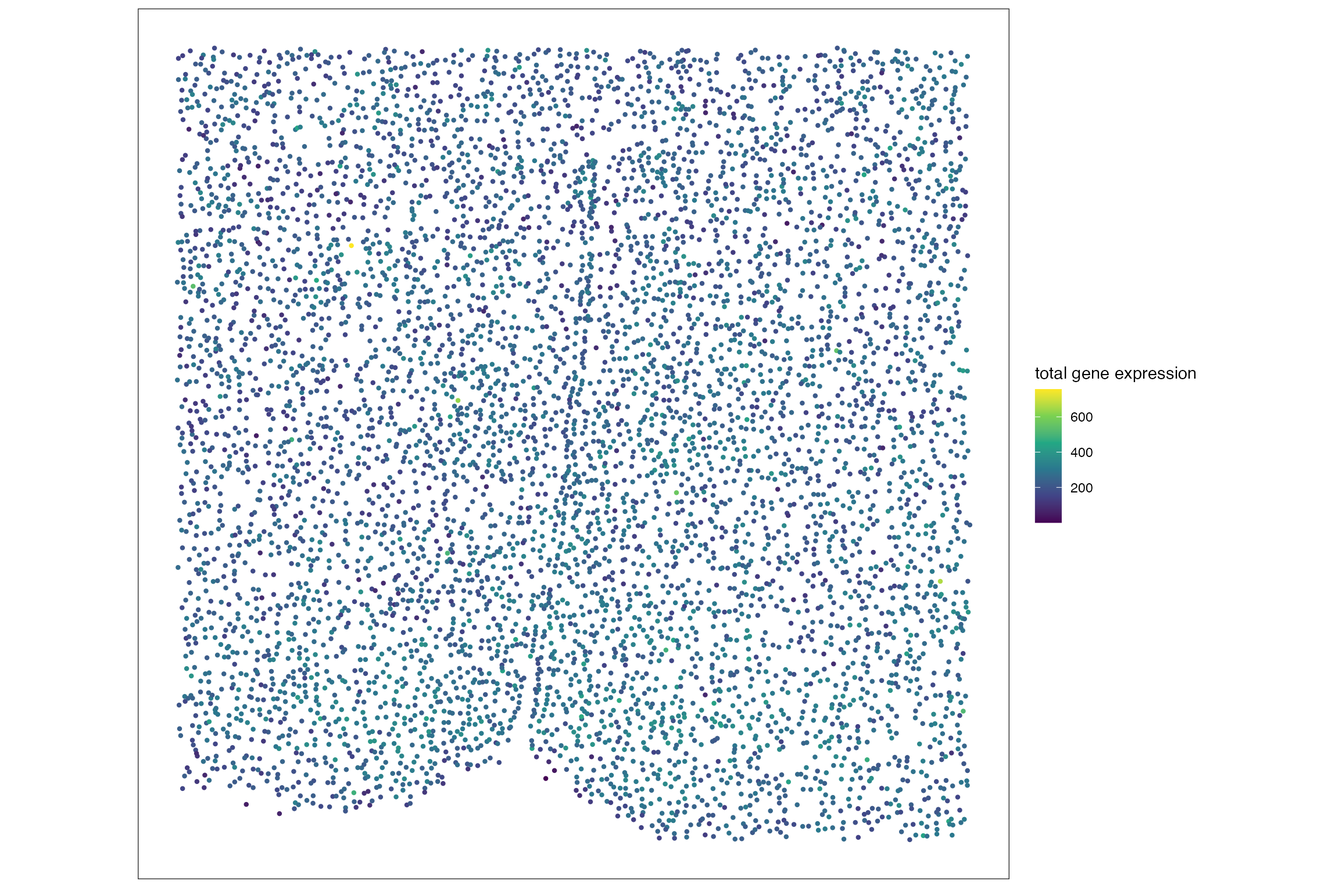
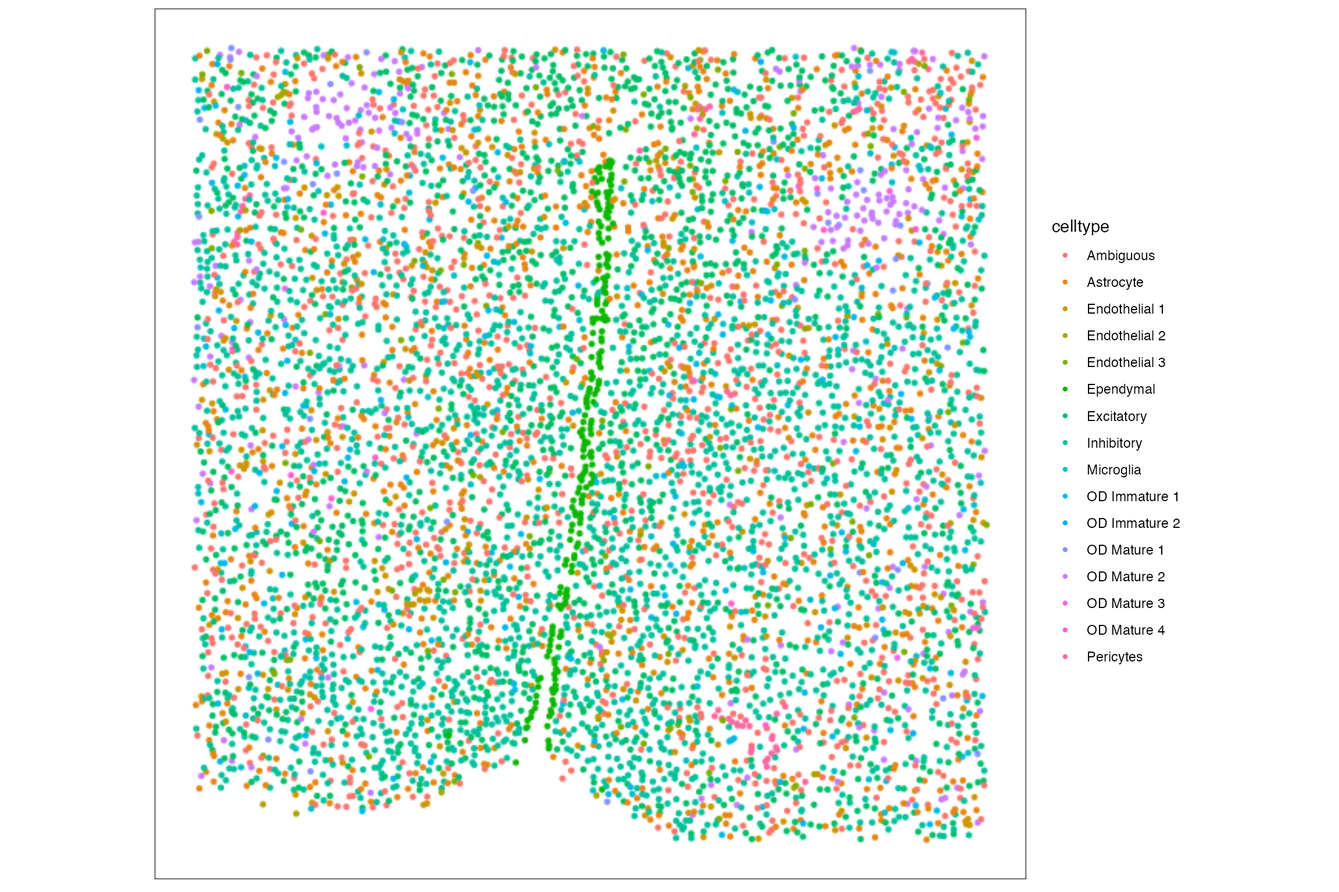
update

diff --git a/docs/articles/formatting-SpatialExperiment-for-SEraster.html b/docs/articles/formatting-SpatialExperiment-for-SEraster.html
@@ -100,7 +100,8 @@ Advances</em></a>, authors collected spatial transcriptomics datasets of
 mouse POA regions for various sexes, behavioral conditions, and bregma
 sections. The full dataset can be downloaded from <a href="https://datadryad.org/stash/dataset/doi:10.5061/dryad.8t8s248" class="external-link">Dryad</a>.
 We only use the dataset for a bregma -0.29 slice from a female naive
-animal (Animal ID = 1).</p>
+animal (Animal ID = 1, Animal Sex = “Female”, Behavior = “Naive”, Bregma
+= “-0.29”).</p>
 <div class="section level3">
 <h3 id="load-libraries">Load libraries<a class="anchor" aria-label="anchor" href="#load-libraries"></a>
 </h3>
@@ -179,29 +180,13 @@ animal (Animal ID = 1).</p>
 <span><span class="co">#&gt;     expand</span></span>
 <span><span class="kw"><a href="https://rdrr.io/r/base/library.html" class="external-link">library</a></span><span class="op">(</span><span class="va"><a href="https://ggplot2.tidyverse.org" class="external-link">ggplot2</a></span><span class="op">)</span></span>
 <span><span class="co">#&gt; Warning: package 'ggplot2' was built under R version 4.3.2</span></span>
-<span><span class="kw"><a href="https://rdrr.io/r/base/library.html" class="external-link">library</a></span><span class="op">(</span><span class="va">gridExtra</span><span class="op">)</span></span>
-<span><span class="co">#&gt; </span></span>
-<span><span class="co">#&gt; Attaching package: 'gridExtra'</span></span>
-<span><span class="co">#&gt; The following object is masked from 'package:Biobase':</span></span>
-<span><span class="co">#&gt; </span></span>
-<span><span class="co">#&gt;     combine</span></span>
-<span><span class="co">#&gt; The following object is masked from 'package:BiocGenerics':</span></span>
-<span><span class="co">#&gt; </span></span>
-<span><span class="co">#&gt;     combine</span></span></code></pre></div>
+<span><span class="kw"><a href="https://rdrr.io/r/base/library.html" class="external-link">library</a></span><span class="op">(</span><span class="va"><a href="https://github.com/VPetukhov/ggrastr" class="external-link">ggrastr</a></span><span class="op">)</span></span></code></pre></div>
 </div>
 <div class="section level3">
-<h3 id="load-dataset">Load dataset<a class="anchor" aria-label="anchor" href="#load-dataset"></a>
+<h3 id="load-the-subsetted-dataset">Load the subsetted dataset<a class="anchor" aria-label="anchor" href="#load-the-subsetted-dataset"></a>
 </h3>
 <div class="sourceCode" id="cb2"><pre class="downlit sourceCode r">
-<code class="sourceCode R"><span><span class="va">data</span> <span class="op">&lt;-</span> <span class="fu"><a href="https://rdrr.io/r/utils/read.table.html" class="external-link">read.csv</a></span><span class="op">(</span><span class="st">'~/Downloads/Moffitt_and_Bambah-Mukku_et_al_merfish_all_cells.csv'</span><span class="op">)</span></span></code></pre></div>
-<p>Subset the dataset to specific female, behavioral condition, and
-bregma section.</p>
-<div class="sourceCode" id="cb3"><pre class="downlit sourceCode r">
-<code class="sourceCode R"><span><span class="va">animal</span> <span class="op">&lt;-</span> <span class="fl">1</span></span>
-<span><span class="va">sex</span> <span class="op">&lt;-</span> <span class="st">"Female"</span></span>
-<span><span class="va">behavior</span> <span class="op">&lt;-</span> <span class="st">"Naive"</span></span>
-<span><span class="va">bregma</span> <span class="op">&lt;-</span> <span class="st">"-0.29"</span></span>
-<span><span class="va">data_sub</span> <span class="op">&lt;-</span> <span class="va">data</span><span class="op">[</span><span class="op">(</span><span class="va">data</span><span class="op">$</span><span class="va">Animal_ID</span> <span class="op">==</span> <span class="va">animal</span> <span class="op">&amp;</span> <span class="va">data</span><span class="op">$</span><span class="va">Animal_sex</span> <span class="op">==</span> <span class="va">sex</span> <span class="op">&amp;</span> <span class="va">data</span><span class="op">$</span><span class="va">Behavior</span> <span class="op">==</span> <span class="va">behavior</span> <span class="op">&amp;</span> <span class="va">data</span><span class="op">$</span><span class="va">Bregma</span> <span class="op">==</span> <span class="va">bregma</span><span class="op">)</span>,<span class="op">]</span></span>
+<code class="sourceCode R"><span><span class="va">data_sub</span> <span class="op">&lt;-</span> <span class="fu"><a href="https://rdrr.io/r/base/readRDS.html" class="external-link">readRDS</a></span><span class="op">(</span>file <span class="op">=</span> <span class="st">"merfish_mousePOA_raw.RDS"</span><span class="op">)</span></span>
 <span><span class="fu"><a href="https://rdrr.io/r/base/dim.html" class="external-link">dim</a></span><span class="op">(</span><span class="va">data_sub</span><span class="op">)</span></span>
 <span><span class="co">#&gt; [1] 6509  170</span></span></code></pre></div>
 </div>
@@ -219,7 +204,7 @@ the <code>spatialCoords</code> splot, the input
 column for cell-type labels in the <code>colData</code> slot. Thus,
 here, we extract genes-by-cells matrix, spatial coordinates matrix, and
 data frame with cell-type labels.</p>
-<div class="sourceCode" id="cb4"><pre class="downlit sourceCode r">
+<div class="sourceCode" id="cb3"><pre class="downlit sourceCode r">
 <code class="sourceCode R"><span><span class="co">## genes-by-cells matrix</span></span>
 <span><span class="co"># extract the genes-by-cells matrix as a sparse matrix (dgCMatrix)</span></span>
 <span><span class="va">mat</span> <span class="op">&lt;-</span> <span class="fu"><a href="https://rdrr.io/r/methods/as.html" class="external-link">as</a></span><span class="op">(</span><span class="fu"><a href="https://rdrr.io/r/base/t.html" class="external-link">t</a></span><span class="op">(</span><span class="va">data_sub</span><span class="op">[</span>,<span class="fl">10</span><span class="op">:</span><span class="fu"><a href="https://rdrr.io/r/base/nrow.html" class="external-link">ncol</a></span><span class="op">(</span><span class="va">data_sub</span><span class="op">)</span><span class="op">]</span><span class="op">)</span>, <span class="st">"CsparseMatrix"</span><span class="op">)</span></span>
@@ -245,7 +230,7 @@ data frame with cell-type labels.</p>
 <span><span class="co">## standardize cell IDs for the extracted objects</span></span>
 <span><span class="fu"><a href="https://rdrr.io/r/base/colnames.html" class="external-link">colnames</a></span><span class="op">(</span><span class="va">mat</span><span class="op">)</span> <span class="op">&lt;-</span> <span class="fu"><a href="https://rdrr.io/r/base/colnames.html" class="external-link">rownames</a></span><span class="op">(</span><span class="va">pos</span><span class="op">)</span> <span class="op">&lt;-</span> <span class="fu"><a href="https://rdrr.io/r/base/colnames.html" class="external-link">rownames</a></span><span class="op">(</span><span class="va">meta</span><span class="op">)</span> <span class="op">&lt;-</span> <span class="va">data_sub</span><span class="op">$</span><span class="va">Cell_ID</span></span></code></pre></div>
 <p>Remove genes and cells with NaN values.</p>
-<div class="sourceCode" id="cb5"><pre class="downlit sourceCode r">
+<div class="sourceCode" id="cb4"><pre class="downlit sourceCode r">
 <code class="sourceCode R"><span><span class="co">## filter genes with NaN values</span></span>
 <span><span class="va">bad_genes</span> <span class="op">&lt;-</span> <span class="fu"><a href="https://rdrr.io/r/base/names.html" class="external-link">names</a></span><span class="op">(</span><span class="fu"><a href="https://rdrr.io/r/base/which.html" class="external-link">which</a></span><span class="op">(</span><span class="fu"><a href="https://rdrr.io/pkg/Matrix/man/colSums.html" class="external-link">rowSums</a></span><span class="op">(</span><span class="fu"><a href="https://rdrr.io/r/base/is.finite.html" class="external-link">is.nan</a></span><span class="op">(</span><span class="va">mat</span><span class="op">)</span><span class="op">)</span> <span class="op">&gt;</span> <span class="fl">0</span><span class="op">)</span><span class="op">)</span> </span>
 <span><span class="va">mat</span> <span class="op">&lt;-</span> <span class="va">mat</span><span class="op">[</span><span class="fu"><a href="https://rdrr.io/r/base/sets.html" class="external-link">setdiff</a></span><span class="op">(</span><span class="fu"><a href="https://rdrr.io/r/base/colnames.html" class="external-link">rownames</a></span><span class="op">(</span><span class="va">mat</span><span class="op">)</span>,<span class="va">bad_genes</span><span class="op">)</span>,<span class="op">]</span></span>
@@ -257,32 +242,32 @@ data frame with cell-type labels.</p>
 <span><span class="va">meta</span> <span class="op">&lt;-</span> <span class="va">meta</span><span class="op">[</span><span class="fu"><a href="https://rdrr.io/r/base/sets.html" class="external-link">setdiff</a></span><span class="op">(</span><span class="fu"><a href="https://rdrr.io/r/base/colnames.html" class="external-link">rownames</a></span><span class="op">(</span><span class="va">pos</span><span class="op">)</span>,<span class="va">bad_cells</span><span class="op">)</span>,<span class="op">]</span></span></code></pre></div>
 <p>Plot total gene expression at single-cell resolution for
 verification.</p>
-<div class="sourceCode" id="cb6"><pre class="downlit sourceCode r">
+<div class="sourceCode" id="cb5"><pre class="downlit sourceCode r">
 <code class="sourceCode R"><span><span class="va">df_plt</span> <span class="op">&lt;-</span> <span class="fu"><a href="https://rdrr.io/r/base/data.frame.html" class="external-link">data.frame</a></span><span class="op">(</span><span class="va">pos</span>, total_gexp <span class="op">=</span> <span class="fu"><a href="https://rdrr.io/pkg/Matrix/man/colSums.html" class="external-link">colSums</a></span><span class="op">(</span><span class="va">mat</span><span class="op">)</span><span class="op">)</span></span>
 <span></span>
 <span><span class="fu"><a href="https://ggplot2.tidyverse.org/reference/ggplot.html" class="external-link">ggplot</a></span><span class="op">(</span><span class="va">df_plt</span>, <span class="fu"><a href="https://ggplot2.tidyverse.org/reference/aes.html" class="external-link">aes</a></span><span class="op">(</span>x <span class="op">=</span> <span class="va">x</span>, y <span class="op">=</span> <span class="va">y</span>, color <span class="op">=</span> <span class="va">total_gexp</span><span class="op">)</span><span class="op">)</span> <span class="op">+</span></span>
 <span>  <span class="fu"><a href="https://ggplot2.tidyverse.org/reference/coord_fixed.html" class="external-link">coord_fixed</a></span><span class="op">(</span><span class="op">)</span> <span class="op">+</span></span>
-<span>  <span class="fu"><a href="https://ggplot2.tidyverse.org/reference/geom_point.html" class="external-link">geom_point</a></span><span class="op">(</span>size <span class="op">=</span> <span class="fl">1.5</span>, stroke <span class="op">=</span> <span class="fl">0</span><span class="op">)</span> <span class="op">+</span></span>
+<span>  <span class="fu"><a href="https://rdrr.io/pkg/ggrastr/man/rasterise.html" class="external-link">rasterise</a></span><span class="op">(</span><span class="fu"><a href="https://ggplot2.tidyverse.org/reference/geom_point.html" class="external-link">geom_point</a></span><span class="op">(</span>size <span class="op">=</span> <span class="fl">1.5</span>, stroke <span class="op">=</span> <span class="fl">0</span><span class="op">)</span><span class="op">)</span> <span class="op">+</span></span>
 <span>  <span class="fu"><a href="https://ggplot2.tidyverse.org/reference/scale_viridis.html" class="external-link">scale_color_viridis_c</a></span><span class="op">(</span>name <span class="op">=</span> <span class="st">"total gene expression"</span><span class="op">)</span> <span class="op">+</span></span>
 <span>  <span class="fu"><a href="https://ggplot2.tidyverse.org/reference/ggtheme.html" class="external-link">theme_bw</a></span><span class="op">(</span><span class="op">)</span> <span class="op">+</span></span>
 <span>  <span class="fu"><a href="https://ggplot2.tidyverse.org/reference/theme.html" class="external-link">theme</a></span><span class="op">(</span>panel.grid <span class="op">=</span> <span class="fu"><a href="https://ggplot2.tidyverse.org/reference/element.html" class="external-link">element_blank</a></span><span class="op">(</span><span class="op">)</span>,</span>
 <span>        axis.title <span class="op">=</span> <span class="fu"><a href="https://ggplot2.tidyverse.org/reference/element.html" class="external-link">element_blank</a></span><span class="op">(</span><span class="op">)</span>,</span>
 <span>        axis.text <span class="op">=</span> <span class="fu"><a href="https://ggplot2.tidyverse.org/reference/element.html" class="external-link">element_blank</a></span><span class="op">(</span><span class="op">)</span>,</span>
 <span>        axis.ticks <span class="op">=</span> <span class="fu"><a href="https://ggplot2.tidyverse.org/reference/element.html" class="external-link">element_blank</a></span><span class="op">(</span><span class="op">)</span><span class="op">)</span></span></code></pre></div>
-<p><img src="formatting-SpatialExperiment-for-SEraster_files/figure-html/unnamed-chunk-7-1.png" width="1152"></p>
+<p><img src="formatting-SpatialExperiment-for-SEraster_files/figure-html/unnamed-chunk-6-1.png" width="1152"></p>
 <p>Plot cell-type labels at single-cell resolution for verification.</p>
-<div class="sourceCode" id="cb7"><pre class="downlit sourceCode r">
+<div class="sourceCode" id="cb6"><pre class="downlit sourceCode r">
 <code class="sourceCode R"><span><span class="va">df_plt</span> <span class="op">&lt;-</span> <span class="fu"><a href="https://rdrr.io/r/base/data.frame.html" class="external-link">data.frame</a></span><span class="op">(</span><span class="va">pos</span>, celltype <span class="op">=</span> <span class="va">meta</span><span class="op">$</span><span class="va">celltype</span><span class="op">)</span></span>
 <span></span>
 <span><span class="fu"><a href="https://ggplot2.tidyverse.org/reference/ggplot.html" class="external-link">ggplot</a></span><span class="op">(</span><span class="va">df_plt</span>, <span class="fu"><a href="https://ggplot2.tidyverse.org/reference/aes.html" class="external-link">aes</a></span><span class="op">(</span>x <span class="op">=</span> <span class="va">x</span>, y <span class="op">=</span> <span class="va">y</span>, color <span class="op">=</span> <span class="va">celltype</span><span class="op">)</span><span class="op">)</span> <span class="op">+</span></span>
 <span>  <span class="fu"><a href="https://ggplot2.tidyverse.org/reference/coord_fixed.html" class="external-link">coord_fixed</a></span><span class="op">(</span><span class="op">)</span> <span class="op">+</span></span>
-<span>  <span class="fu"><a href="https://ggplot2.tidyverse.org/reference/geom_point.html" class="external-link">geom_point</a></span><span class="op">(</span>size <span class="op">=</span> <span class="fl">1.5</span>, stroke <span class="op">=</span> <span class="fl">0</span><span class="op">)</span> <span class="op">+</span></span>
+<span>  <span class="fu"><a href="https://rdrr.io/pkg/ggrastr/man/rasterise.html" class="external-link">rasterise</a></span><span class="op">(</span><span class="fu"><a href="https://ggplot2.tidyverse.org/reference/geom_point.html" class="external-link">geom_point</a></span><span class="op">(</span>size <span class="op">=</span> <span class="fl">1.5</span>, stroke <span class="op">=</span> <span class="fl">0</span><span class="op">)</span><span class="op">)</span> <span class="op">+</span></span>
 <span>  <span class="fu"><a href="https://ggplot2.tidyverse.org/reference/ggtheme.html" class="external-link">theme_bw</a></span><span class="op">(</span><span class="op">)</span> <span class="op">+</span></span>
 <span>  <span class="fu"><a href="https://ggplot2.tidyverse.org/reference/theme.html" class="external-link">theme</a></span><span class="op">(</span>panel.grid <span class="op">=</span> <span class="fu"><a href="https://ggplot2.tidyverse.org/reference/element.html" class="external-link">element_blank</a></span><span class="op">(</span><span class="op">)</span>,</span>
 <span>        axis.title <span class="op">=</span> <span class="fu"><a href="https://ggplot2.tidyverse.org/reference/element.html" class="external-link">element_blank</a></span><span class="op">(</span><span class="op">)</span>,</span>
 <span>        axis.text <span class="op">=</span> <span class="fu"><a href="https://ggplot2.tidyverse.org/reference/element.html" class="external-link">element_blank</a></span><span class="op">(</span><span class="op">)</span>,</span>
 <span>        axis.ticks <span class="op">=</span> <span class="fu"><a href="https://ggplot2.tidyverse.org/reference/element.html" class="external-link">element_blank</a></span><span class="op">(</span><span class="op">)</span><span class="op">)</span></span></code></pre></div>
-<p><img src="formatting-SpatialExperiment-for-SEraster_files/figure-html/unnamed-chunk-8-1.png" width="1152"></p>
+<p><img src="formatting-SpatialExperiment-for-SEraster_files/figure-html/unnamed-chunk-7-1.png" width="1152"></p>
 </div>
 <div class="section level3">
 <h3 id="format-spatialexperiment-object">Format SpatialExperiment object<a class="anchor" aria-label="anchor" href="#format-spatialexperiment-object"></a>
@@ -292,14 +277,14 @@ frame with cell-type labels into a <code>SpatialExperiment</code>
 object. Here, the genes-by-cells matrix is named as “volnorm” because
 the loaded gene expression was already normalized by cell volume and
 scaled by 1000.</p>
-<div class="sourceCode" id="cb8"><pre class="downlit sourceCode r">
+<div class="sourceCode" id="cb7"><pre class="downlit sourceCode r">
 <code class="sourceCode R"><span><span class="va">spe</span> <span class="op">&lt;-</span> <span class="fu">SpatialExperiment</span><span class="fu">::</span><span class="fu"><a href="https://rdrr.io/pkg/SpatialExperiment/man/SpatialExperiment.html" class="external-link">SpatialExperiment</a></span><span class="op">(</span></span>
 <span>  assays <span class="op">=</span> <span class="fu"><a href="https://rdrr.io/r/base/list.html" class="external-link">list</a></span><span class="op">(</span>volnorm <span class="op">=</span> <span class="va">mat</span><span class="op">)</span>,</span>
 <span>  spatialCoords <span class="op">=</span> <span class="fu"><a href="https://rdrr.io/r/base/matrix.html" class="external-link">as.matrix</a></span><span class="op">(</span><span class="va">pos</span><span class="op">)</span>,</span>
 <span>  colData <span class="op">=</span> <span class="va">meta</span></span>
 <span><span class="op">)</span></span></code></pre></div>
 <details><summary><strong>Session Info</strong>
-</summary><div class="sourceCode" id="cb9"><pre class="downlit sourceCode r">
+</summary><div class="sourceCode" id="cb8"><pre class="downlit sourceCode r">
 <code class="sourceCode R"><span><span class="fu"><a href="https://rdrr.io/r/utils/sessionInfo.html" class="external-link">sessionInfo</a></span><span class="op">(</span><span class="op">)</span></span>
 <span><span class="co">#&gt; R version 4.3.1 (2023-06-16)</span></span>
 <span><span class="co">#&gt; Platform: x86_64-apple-darwin20 (64-bit)</span></span>
@@ -320,7 +305,7 @@ scaled by 1000.</p>
 <span><span class="co">#&gt; [8] base     </span></span>
 <span><span class="co">#&gt; </span></span>
 <span><span class="co">#&gt; other attached packages:</span></span>
-<span><span class="co">#&gt;  [1] gridExtra_2.3               ggplot2_3.5.1              </span></span>
+<span><span class="co">#&gt;  [1] ggrastr_1.0.2               ggplot2_3.5.1              </span></span>
 <span><span class="co">#&gt;  [3] Matrix_1.6-5                SpatialExperiment_1.10.0   </span></span>
 <span><span class="co">#&gt;  [5] SingleCellExperiment_1.22.0 SummarizedExperiment_1.30.2</span></span>
 <span><span class="co">#&gt;  [7] Biobase_2.60.0              GenomicRanges_1.52.1       </span></span>
@@ -330,46 +315,48 @@ scaled by 1000.</p>
 <span><span class="co">#&gt; </span></span>
 <span><span class="co">#&gt; loaded via a namespace (and not attached):</span></span>
 <span><span class="co">#&gt;  [1] tidyselect_1.2.1          viridisLite_0.4.2        </span></span>
-<span><span class="co">#&gt;  [3] dplyr_1.1.4               farver_2.1.2             </span></span>
-<span><span class="co">#&gt;  [5] R.utils_2.12.3            bitops_1.0-7             </span></span>
-<span><span class="co">#&gt;  [7] fastmap_1.1.1             RCurl_1.98-1.14          </span></span>
-<span><span class="co">#&gt;  [9] digest_0.6.35             lifecycle_1.0.4          </span></span>
-<span><span class="co">#&gt; [11] magrittr_2.0.3            compiler_4.3.1           </span></span>
-<span><span class="co">#&gt; [13] rlang_1.1.3               sass_0.4.9               </span></span>
-<span><span class="co">#&gt; [15] tools_4.3.1               utf8_1.2.4               </span></span>
-<span><span class="co">#&gt; [17] yaml_2.3.8                knitr_1.45               </span></span>
-<span><span class="co">#&gt; [19] labeling_0.4.3            S4Arrays_1.0.6           </span></span>
-<span><span class="co">#&gt; [21] dqrng_0.3.2               htmlwidgets_1.6.4        </span></span>
-<span><span class="co">#&gt; [23] DelayedArray_0.26.7       abind_1.4-5              </span></span>
-<span><span class="co">#&gt; [25] BiocParallel_1.36.0       HDF5Array_1.28.1         </span></span>
-<span><span class="co">#&gt; [27] withr_3.0.0               purrr_1.0.2              </span></span>
-<span><span class="co">#&gt; [29] desc_1.4.3                R.oo_1.26.0              </span></span>
-<span><span class="co">#&gt; [31] grid_4.3.1                fansi_1.0.6              </span></span>
-<span><span class="co">#&gt; [33] beachmat_2.16.0           colorspace_2.1-0         </span></span>
-<span><span class="co">#&gt; [35] Rhdf5lib_1.22.1           edgeR_3.42.4             </span></span>
-<span><span class="co">#&gt; [37] scales_1.3.0              cli_3.6.2                </span></span>
-<span><span class="co">#&gt; [39] rmarkdown_2.26            crayon_1.5.2             </span></span>
-<span><span class="co">#&gt; [41] ragg_1.3.1                generics_0.1.3           </span></span>
-<span><span class="co">#&gt; [43] rstudioapi_0.16.0         rjson_0.2.21             </span></span>
-<span><span class="co">#&gt; [45] DelayedMatrixStats_1.22.6 scuttle_1.10.3           </span></span>
-<span><span class="co">#&gt; [47] cachem_1.0.8              rhdf5_2.44.0             </span></span>
-<span><span class="co">#&gt; [49] zlibbioc_1.46.0           parallel_4.3.1           </span></span>
-<span><span class="co">#&gt; [51] XVector_0.40.0            vctrs_0.6.5              </span></span>
-<span><span class="co">#&gt; [53] jsonlite_1.8.8            systemfonts_1.0.6        </span></span>
-<span><span class="co">#&gt; [55] magick_2.8.3              locfit_1.5-9.9           </span></span>
-<span><span class="co">#&gt; [57] limma_3.56.2              jquerylib_0.1.4          </span></span>
-<span><span class="co">#&gt; [59] glue_1.7.0                pkgdown_2.0.9            </span></span>
-<span><span class="co">#&gt; [61] DropletUtils_1.20.0       codetools_0.2-20         </span></span>
-<span><span class="co">#&gt; [63] gtable_0.3.5              munsell_0.5.1            </span></span>
-<span><span class="co">#&gt; [65] tibble_3.2.1              pillar_1.9.0             </span></span>
-<span><span class="co">#&gt; [67] htmltools_0.5.8.1         rhdf5filters_1.12.1      </span></span>
-<span><span class="co">#&gt; [69] GenomeInfoDbData_1.2.10   R6_2.5.1                 </span></span>
-<span><span class="co">#&gt; [71] textshaping_0.3.7         sparseMatrixStats_1.12.2 </span></span>
-<span><span class="co">#&gt; [73] evaluate_0.23             lattice_0.22-6           </span></span>
-<span><span class="co">#&gt; [75] highr_0.10                R.methodsS3_1.8.2        </span></span>
-<span><span class="co">#&gt; [77] memoise_2.0.1             bslib_0.7.0              </span></span>
-<span><span class="co">#&gt; [79] Rcpp_1.0.12               xfun_0.43                </span></span>
-<span><span class="co">#&gt; [81] fs_1.6.4                  pkgconfig_2.0.3</span></span></code></pre></div>
+<span><span class="co">#&gt;  [3] farver_2.1.2              vipor_0.4.7              </span></span>
+<span><span class="co">#&gt;  [5] dplyr_1.1.4               R.utils_2.12.3           </span></span>
+<span><span class="co">#&gt;  [7] bitops_1.0-7              fastmap_1.1.1            </span></span>
+<span><span class="co">#&gt;  [9] RCurl_1.98-1.14           digest_0.6.35            </span></span>
+<span><span class="co">#&gt; [11] lifecycle_1.0.4           Cairo_1.6-2              </span></span>
+<span><span class="co">#&gt; [13] magrittr_2.0.3            compiler_4.3.1           </span></span>
+<span><span class="co">#&gt; [15] rlang_1.1.3               sass_0.4.9               </span></span>
+<span><span class="co">#&gt; [17] tools_4.3.1               utf8_1.2.4               </span></span>
+<span><span class="co">#&gt; [19] yaml_2.3.8                knitr_1.45               </span></span>
+<span><span class="co">#&gt; [21] labeling_0.4.3            S4Arrays_1.0.6           </span></span>
+<span><span class="co">#&gt; [23] dqrng_0.3.2               htmlwidgets_1.6.4        </span></span>
+<span><span class="co">#&gt; [25] DelayedArray_0.26.7       abind_1.4-5              </span></span>
+<span><span class="co">#&gt; [27] BiocParallel_1.36.0       HDF5Array_1.28.1         </span></span>
+<span><span class="co">#&gt; [29] withr_3.0.0               purrr_1.0.2              </span></span>
+<span><span class="co">#&gt; [31] desc_1.4.3                R.oo_1.26.0              </span></span>
+<span><span class="co">#&gt; [33] grid_4.3.1                fansi_1.0.6              </span></span>
+<span><span class="co">#&gt; [35] beachmat_2.16.0           colorspace_2.1-0         </span></span>
+<span><span class="co">#&gt; [37] Rhdf5lib_1.22.1           edgeR_3.42.4             </span></span>
+<span><span class="co">#&gt; [39] scales_1.3.0              cli_3.6.2                </span></span>
+<span><span class="co">#&gt; [41] rmarkdown_2.26            crayon_1.5.2             </span></span>
+<span><span class="co">#&gt; [43] ragg_1.3.1                generics_0.1.3           </span></span>
+<span><span class="co">#&gt; [45] rstudioapi_0.16.0         rjson_0.2.21             </span></span>
+<span><span class="co">#&gt; [47] DelayedMatrixStats_1.22.6 scuttle_1.10.3           </span></span>
+<span><span class="co">#&gt; [49] ggbeeswarm_0.7.2          cachem_1.0.8             </span></span>
+<span><span class="co">#&gt; [51] rhdf5_2.44.0              zlibbioc_1.46.0          </span></span>
+<span><span class="co">#&gt; [53] parallel_4.3.1            XVector_0.40.0           </span></span>
+<span><span class="co">#&gt; [55] vctrs_0.6.5               jsonlite_1.8.8           </span></span>
+<span><span class="co">#&gt; [57] beeswarm_0.4.0            systemfonts_1.0.6        </span></span>
+<span><span class="co">#&gt; [59] magick_2.8.3              locfit_1.5-9.9           </span></span>
+<span><span class="co">#&gt; [61] limma_3.56.2              jquerylib_0.1.4          </span></span>
+<span><span class="co">#&gt; [63] glue_1.7.0                pkgdown_2.0.9            </span></span>
+<span><span class="co">#&gt; [65] DropletUtils_1.20.0       codetools_0.2-20         </span></span>
+<span><span class="co">#&gt; [67] gtable_0.3.5              munsell_0.5.1            </span></span>
+<span><span class="co">#&gt; [69] tibble_3.2.1              pillar_1.9.0             </span></span>
+<span><span class="co">#&gt; [71] htmltools_0.5.8.1         rhdf5filters_1.12.1      </span></span>
+<span><span class="co">#&gt; [73] GenomeInfoDbData_1.2.10   R6_2.5.1                 </span></span>
+<span><span class="co">#&gt; [75] textshaping_0.3.7         sparseMatrixStats_1.12.2 </span></span>
+<span><span class="co">#&gt; [77] evaluate_0.23             lattice_0.22-6           </span></span>
+<span><span class="co">#&gt; [79] highr_0.10                R.methodsS3_1.8.2        </span></span>
+<span><span class="co">#&gt; [81] memoise_2.0.1             bslib_0.7.0              </span></span>
+<span><span class="co">#&gt; [83] Rcpp_1.0.12               xfun_0.43                </span></span>
+<span><span class="co">#&gt; [85] fs_1.6.4                  pkgconfig_2.0.3</span></span></code></pre></div>
 </details>
 </div>
 </div>
